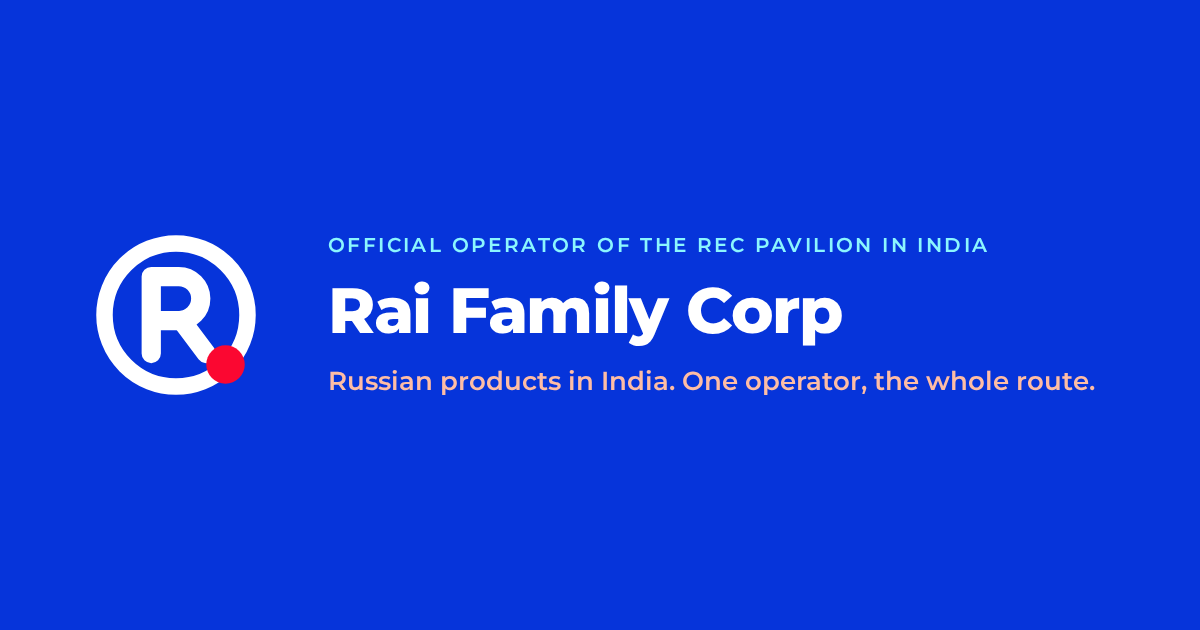
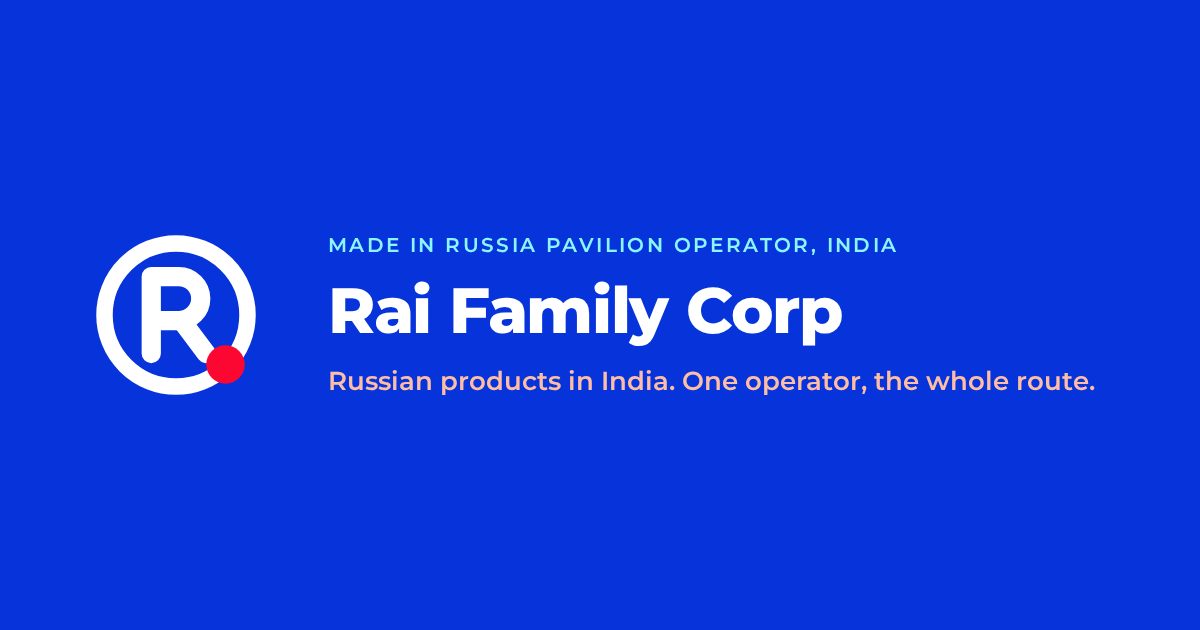
feat(i18n): name the pavilion by its official Made in Russia title
- pavilion is the Made in Russia national pavilion in Navi Mumbai, a Russian
  Export Center project; abbreviations REC/РЭЦ dropped from visible copy
- new keys pavilion.subtitle and status.* in three locales; Навi-Мумбаи with hyphen
- direction summaries updated; og.png regenerated
- Seo.astro: Organization description and optional sameAs (contacts.sameAs)
- src/data/company.ts: facts pending confirmation by the Russian Export Center

Claude-Session: https://claude.ai/code/session_0174xDGYvpD3uDKJ4RSyVDz9

Changed region(s): [[0.2775, 0.3619, 0.8325, 0.4222]]

diff --git a/src/i18n/ui.ts b/src/i18n/ui.ts
@@ -30,6 +30,7 @@ interface Copy {
     badge: string;
   };
   trust: { operator: string; pavilion: string; since: string; mark: string };
+  status: { company: string; direction: string; line: string; markAlt: string };
   audiences: {
     eyebrow: string;
     title: string;
@@ -71,6 +72,7 @@ interface Copy {
   pavilion: {
     eyebrow: string;
     title: string;
+    subtitle: string;
     text: string;
     addressLabel: string;
     address: string[];
@@ -95,9 +97,9 @@ export const ui: Record<'en' | 'ru' | 'hi', Copy> = {
   en: {
     meta: {
       siteName: 'Rai Family Corp',
-      title: 'Rai Family Corp — Official operator of the Russian Export Center pavilion in India',
+      title: 'Rai Family Corp: operator of the Made in Russia national pavilion in India',
       description:
-        'Rai Family Corp LLP promotes Russian products in India as the official operator of the Russian Export Center pavilion: distribution, marketing, import, certification and logistics.',
+        'Rai Family Corp LLP is the operator of the Made in Russia national pavilion in Navi Mumbai, a Russian Export Center project and the first in India. Distribution, marketing, import, certification and logistics for Russian products.',
     },
     nav: {
       about: 'About',
@@ -114,7 +116,7 @@ export const ui: Record<'en' | 'ru' | 'hi', Copy> = {
       footerLanguage: 'Language, footer',
     },
     hero: {
-      eyebrow: 'Official operator of the Russian Export Center pavilion in India',
+      eyebrow: 'Made in Russia pavilion operator, India',
       title: 'Russian products in India. One operator, the whole route.',
       lead: 'Rai Family Corp LLP gives Russian manufacturers direct distribution channels and marketing in India, and handles the full cycle of import, certification and logistics.',
       ctaPrimary: 'Contact us',
@@ -122,10 +124,16 @@ export const ui: Record<'en' | 'ru' | 'hi', Copy> = {
       badge: 'Made in Russia. Trusted by the world',
     },
     trust: {
-      operator: 'Official REC pavilion operator',
-      pavilion: 'Pavilion in Navi Mumbai',
-      since: 'Operating since 2024',
+      operator: 'Made in Russia pavilion operator',
+      pavilion: 'First pavilion of the programme in India',
+      since: 'Company since 2024, pavilion since August 2026',
       mark: 'Made in Russia mark',
+    },
+    status: {
+      company: 'Rai Family Corp',
+      direction: 'A Rai Family Corp direction',
+      line: 'Made in Russia pavilion operator, India',
+      markAlt: 'Made in Russia mark',
     },
     audiences: {
       eyebrow: 'Who we work with',
@@ -134,7 +142,7 @@ export const ui: Record<'en' | 'ru' | 'hi', Copy> = {
       items: {
         manufacturers: {
           title: 'Russian manufacturers',
-          text: 'Enter the Indian market through the official REC pavilion: market assessment, adaptation, certification, import and distribution under one contract.',
+          text: 'Enter the Indian market through the Made in Russia pavilion: market assessment, adaptation, certification, import and distribution under one contract.',
           cta: 'See services',
         },
         distributors: {
@@ -158,14 +166,14 @@ export const ui: Record<'en' | 'ru' | 'hi', Copy> = {
       eyebrow: 'About the company',
       title: 'The official gateway for Russian products into India',
       paragraphs: [
-        'Rai Family Corp LLP is an Indian company and the official operator of the Russian Export Center pavilion in India. The pavilion is the point where Russian manufacturers meet Indian distributors, retail chains and institutions.',
+        'Rai Family Corp LLP is an Indian company and the operator of the Made in Russia national pavilion in Navi Mumbai, a Russian Export Center project. The pavilion is where Russian manufacturers meet Indian distributors, retail chains and institutions.',
         'We provide direct distribution channels and marketing promotion, and cover the full range of related work: market research, product and packaging adaptation, certification, import procedures, legal support and logistics.',
       ],
       facts: [
-        { label: 'Status', value: 'Official REC pavilion operator' },
+        { label: 'Status', value: 'Made in Russia national pavilion operator' },
         { label: 'Founded', value: 'September 2024' },
         { label: 'Registered', value: 'India, Maharashtra' },
-        { label: 'Pavilion', value: 'CBD Belapur, Navi Mumbai' },
+        { label: 'Pavilion', value: 'Opened 21 August 2026, CBD Belapur, Navi Mumbai' },
       ],
     },
     services: {
@@ -232,14 +240,17 @@ export const ui: Record<'en' | 'ru' | 'hi', Copy> = {
       documents: 'Documents',
       siteSoon: 'Product site coming soon',
       backToContacts: 'Contact the operator',
-      contactsIntro: 'Enquiries about this direction go through Rai Family Corp, the operator.',
+      contactsIntro:
+        'Enquiries about this direction go through the pavilion operator, Rai Family Corp.',
       audiencesLabel: 'For',
       otherDirections: 'Other directions',
     },
     pavilion: {
       eyebrow: 'Pavilion',
-      title: 'Russian Export Center pavilion, Navi Mumbai',
-      text: 'The pavilion is the physical home of Russian products in India: a showroom for distributors and institutions, a venue for tastings and B2B meetings, and the operator’s office.',
+      title: 'Made in Russia national pavilion, Navi Mumbai',
+      subtitle:
+        'A Russian Export Center project · opened 21 August 2026 · CBD Belapur, Navi Mumbai',
+      text: 'The first Made in Russia pavilion in India, a Russian Export Center project opened on 21 August 2026. It is the physical home of Russian products in the country: a showroom for distributors and institutions, a venue for tastings and B2B meetings, and the office of the operator, Rai Family Corp.',
       addressLabel: 'Address',
       address: [
         'Office No. 1307 and 1308, NMS Titanium, 13th Floor',
@@ -261,7 +272,8 @@ export const ui: Record<'en' | 'ru' | 'hi', Copy> = {
     },
     footer: {
       legal: 'Rai Family Corp LLP',
-      operator: 'Official operator of the Russian Export Center pavilion in India',
+      operator:
+        'Operator of the Made in Russia national pavilion in India, a Russian Export Center project',
       rights: 'All rights reserved.',
       madeInRussia:
         '“Made in Russia” is a trademark of the Russian Export Center, used with permission.',
@@ -276,10 +288,9 @@ export const ui: Record<'en' | 'ru' | 'hi', Copy> = {
   ru: {
     meta: {
       siteName: 'Rai Family Corp',
-      title:
-        'Rai Family Corp — официальный оператор павильона Российского экспортного центра в Индии',
+      title: 'Rai Family Corp: оператор национального павильона «Сделано в России» в Индии',
       description:
-        'Rai Family Corp LLP продвигает российские товары в Индии как официальный оператор павильона Российского экспортного центра: дистрибуция, маркетинг, импорт, сертификация и логистика.',
+        'Rai Family Corp LLP: оператор национального павильона «Сделано в России» в Нави-Мумбаи, проекта Российского экспортного центра и первого в Индии. Дистрибуция, маркетинг, импорт, сертификация и логистика российских товаров.',
     },
     nav: {
       about: 'О компании',
@@ -296,7 +307,7 @@ export const ui: Record<'en' | 'ru' | 'hi', Copy> = {
       footerLanguage: 'Язык, подвал',
     },
     hero: {
-      eyebrow: 'Официальный оператор павильона Российского экспортного центра в Индии',
+      eyebrow: 'Оператор павильона «Сделано в России» в Индии',
       title: 'Российские товары в Индии. Один оператор, весь путь.',
       lead: 'Rai Family Corp LLP даёт российским производителям прямые каналы дистрибуции и маркетинговое продвижение в Индии и берёт на себя полный цикл импорта, сертификации и логистики.',
       ctaPrimary: 'Связаться',
@@ -304,10 +315,16 @@ export const ui: Record<'en' | 'ru' | 'hi', Copy> = {
       badge: 'Сделано в России. Качество, которому доверяют',
     },
     trust: {
-      operator: 'Официальный оператор павильона РЭЦ',
-      pavilion: 'Павильон в Нави Мумбаи',
-      since: 'Работаем с 2024 года',
+      operator: 'Оператор павильона «Сделано в России»',
+      pavilion: 'Первый павильон программы в Индии',
+      since: 'Компания с 2024 года, павильон с августа 2026',
       mark: 'Знак «Сделано в России»',
+    },
+    status: {
+      company: 'Rai Family Corp',
+      direction: 'Направление Rai Family Corp',
+      line: 'Оператор павильона «Сделано в России» в Индии',
+      markAlt: 'Знак «Сделано в России»',
     },
     audiences: {
       eyebrow: 'С кем мы работаем',
@@ -316,12 +333,12 @@ export const ui: Record<'en' | 'ru' | 'hi', Copy> = {
       items: {
         manufacturers: {
           title: 'Российские производители',
-          text: 'Выход на рынок Индии через официальный павильон РЭЦ: оценка рынка, адаптация, сертификация, импорт и дистрибуция по одному договору.',
+          text: 'Выход на рынок Индии через павильон «Сделано в России»: оценка рынка, адаптация, сертификация, импорт и дистрибуция по одному договору.',
           cta: 'Смотреть услуги',
         },
         distributors: {
           title: 'Индийские дистрибьюторы и ритейл',
-          text: 'Сертифицированные российские товары от одного ответственного партнёра в Нави Мумбаи: документы, логистика и маркетинговая поддержка включены.',
+          text: 'Сертифицированные российские товары от одного ответственного партнёра в Нави-Мумбаи: документы, логистика и маркетинговая поддержка включены.',
           cta: 'Смотреть направления',
         },
         institutions: {
@@ -340,14 +357,14 @@ export const ui: Record<'en' | 'ru' | 'hi', Copy> = {
       eyebrow: 'О компании',
       title: 'Официальные ворота для российских товаров в Индию',
       paragraphs: [
-        'Rai Family Corp LLP — индийская компания, официальный оператор павильона Российского экспортного центра в Индии. Павильон — это точка, где российские производители встречаются с индийскими дистрибьюторами, торговыми сетями и институтами.',
+        'Rai Family Corp LLP: индийская компания, оператор национального павильона «Сделано в России» в Нави-Мумбаи, проекта Российского экспортного центра. Павильон: точка, где российские производители встречаются с индийскими дистрибьюторами, торговыми сетями и институтами.',
         'Мы предоставляем прямые каналы дистрибуции и маркетинговое продвижение и закрываем весь спектр связанных задач: исследование рынка, адаптацию продукта и упаковки, сертификацию, импортные процедуры, юридическое сопровождение и логистику.',
       ],
       facts: [
-        { label: 'Статус', value: 'Официальный оператор павильона РЭЦ' },
+        { label: 'Статус', value: 'Оператор национального павильона «Сделано в России»' },
         { label: 'Основана', value: 'Сентябрь 2024' },
         { label: 'Регистрация', value: 'Индия, Махараштра' },
-        { label: 'Павильон', value: 'CBD Belapur, Нави Мумбаи' },
+        { label: 'Павильон', value: 'Открыт 21 августа 2026, CBD Belapur, Нави-Мумбаи' },
       ],
     },
     services: {
@@ -414,14 +431,17 @@ export const ui: Record<'en' | 'ru' | 'hi', Copy> = {
       documents: 'Документы',
       siteSoon: 'Сайт продукта скоро появится',
       backToContacts: 'Связаться с оператором',
-      contactsIntro: 'Запросы по этому направлению проходят через оператора — Rai Family Corp.',
+      contactsIntro:
+        'Запросы по этому направлению проходят через оператора павильона, Rai Family Corp.',
       audiencesLabel: 'Для кого',
       otherDirections: 'Другие направления',
     },
     pavilion: {
       eyebrow: 'Павильон',
-      title: 'Павильон Российского экспортного центра, Нави Мумбаи',
-      text: 'Павильон — физический дом российских товаров в Индии: шоурум для дистрибьюторов и институтов, площадка для дегустаций и B2B-встреч, офис оператора.',
+      title: 'Национальный павильон «Сделано в России», Нави-Мумбаи',
+      subtitle:
+        'Проект Российского экспортного центра · открыт 21 августа 2026 · CBD Belapur, Нави-Мумбаи',
+      text: 'Первый павильон «Сделано в России» в Индии, проект Российского экспортного центра, открыт 21 августа 2026 года. Это физический дом российских товаров в стране: шоурум для дистрибьюторов и институтов, площадка для дегустаций и B2B-встреч, офис оператора Rai Family Corp.',
       addressLabel: 'Адрес',
       address: [
         'Office No. 1307 and 1308, NMS Titanium, 13th Floor',
@@ -443,7 +463,8 @@ export const ui: Record<'en' | 'ru' | 'hi', Copy> = {
     },
     footer: {
       legal: 'Rai Family Corp LLP',
-      operator: 'Официальный оператор павильона Российского экспортного центра в Индии',
+      operator:
+        'Оператор национального павильона «Сделано в России» в Индии, проекта Российского экспортного центра',
       rights: 'Все права защищены.',
       madeInRussia:
         '«Сделано в России» — товарный знак Российского экспортного центра, используется с разрешения.',
@@ -458,9 +479,9 @@ export const ui: Record<'en' | 'ru' | 'hi', Copy> = {
   hi: {
     meta: {
       siteName: 'Rai Family Corp',
-      title: 'Rai Family Corp — भारत में रूसी निर्यात केंद्र पवेलियन का आधिकारिक ऑपरेटर',
+      title: 'Rai Family Corp: भारत में Made in Russia राष्ट्रीय पवेलियन का ऑपरेटर',
       description:
-        'Rai Family Corp LLP रूसी निर्यात केंद्र पवेलियन के आधिकारिक ऑपरेटर के रूप में भारत में रूसी उत्पादों का प्रचार करता है: वितरण, मार्केटिंग, आयात, प्रमाणन और लॉजिस्टिक्स।',
+        'Rai Family Corp LLP नवी मुंबई में Made in Russia राष्ट्रीय पवेलियन का ऑपरेटर है, जो रूसी निर्यात केंद्र की परियोजना और भारत में पहला पवेलियन है। रूसी उत्पादों के लिए वितरण, मार्केटिंग, आयात, प्रमाणन और लॉजिस्टिक्स।',
     },
     nav: {
       about: 'कंपनी',
@@ -477,7 +498,7 @@ export const ui: Record<'en' | 'ru' | 'hi', Copy> = {
       footerLanguage: 'भाषा, फ़ुटर',
     },
     hero: {
-      eyebrow: 'भारत में रूसी निर्यात केंद्र पवेलियन का आधिकारिक ऑपरेटर',
+      eyebrow: 'Made in Russia पवेलियन ऑपरेटर, भारत',
       title: 'भारत में रूसी उत्पाद। एक ऑपरेटर, पूरा रास्ता।',
       lead: 'Rai Family Corp LLP रूसी निर्माताओं को भारत में सीधे वितरण चैनल और मार्केटिंग प्रदान करता है, और आयात, प्रमाणन व लॉजिस्टिक्स का पूरा चक्र संभालता है।',
       ctaPrimary: 'संपर्क करें',
@@ -485,10 +506,16 @@ export const ui: Record<'en' | 'ru' | 'hi', Copy> = {
       badge: 'Made in Russia. Trusted by the world',
     },
     trust: {
-      operator: 'REC पवेलियन का आधिकारिक ऑपरेटर',
-      pavilion: 'नवी मुंबई में पवेलियन',
-      since: '2024 से कार्यरत',
+      operator: 'Made in Russia पवेलियन ऑपरेटर',
+      pavilion: 'भारत में कार्यक्रम का पहला पवेलियन',
+      since: 'कंपनी 2024 से, पवेलियन अगस्त 2026 से',
       mark: 'Made in Russia चिह्न',
+    },
+    status: {
+      company: 'Rai Family Corp',
+      direction: 'Rai Family Corp की दिशा',
+      line: 'Made in Russia पवेलियन ऑपरेटर, भारत',
+      markAlt: 'Made in Russia चिह्न',
     },
     audiences: {
       eyebrow: 'हम किसके साथ काम करते हैं',
@@ -497,7 +524,7 @@ export const ui: Record<'en' | 'ru' | 'hi', Copy> = {
       items: {
         manufacturers: {
           title: 'रूसी निर्माता',
-          text: 'आधिकारिक REC पवेलियन के माध्यम से भारतीय बाज़ार में प्रवेश: बाज़ार आकलन, अनुकूलन, प्रमाणन, आयात और वितरण — एक ही अनुबंध में।',
+          text: 'Made in Russia पवेलियन के माध्यम से भारतीय बाज़ार में प्रवेश: बाज़ार आकलन, अनुकूलन, प्रमाणन, आयात और वितरण, एक ही अनुबंध में।',
           cta: 'सेवाएँ देखें',
         },
         distributors: {
@@ -521,14 +548,14 @@ export const ui: Record<'en' | 'ru' | 'hi', Copy> = {
       eyebrow: 'कंपनी के बारे में',
       title: 'रूसी उत्पादों के लिए भारत का आधिकारिक प्रवेश द्वार',
       paragraphs: [
-        'Rai Family Corp LLP एक भारतीय कंपनी है और भारत में रूसी निर्यात केंद्र पवेलियन का आधिकारिक ऑपरेटर है। पवेलियन वह स्थान है जहाँ रूसी निर्माता भारतीय वितरकों, रिटेल शृंखलाओं और संस्थानों से मिलते हैं।',
+        'Rai Family Corp LLP एक भारतीय कंपनी है और नवी मुंबई में Made in Russia («मेड इन रशिया») राष्ट्रीय पवेलियन की ऑपरेटर है, जो रूसी निर्यात केंद्र की परियोजना है। पवेलियन वह स्थान है जहाँ रूसी निर्माता भारतीय वितरकों, रिटेल शृंखलाओं और संस्थानों से मिलते हैं।',
         'हम सीधे वितरण चैनल और मार्केटिंग प्रचार प्रदान करते हैं और संबंधित सभी कार्य संभालते हैं: बाज़ार अनुसंधान, उत्पाद और पैकेजिंग अनुकूलन, प्रमाणन, आयात प्रक्रियाएँ, कानूनी सहायता और लॉजिस्टिक्स।',
       ],
       facts: [
-        { label: 'स्थिति', value: 'REC पवेलियन का आधिकारिक ऑपरेटर' },
+        { label: 'स्थिति', value: 'Made in Russia राष्ट्रीय पवेलियन का ऑपरेटर' },
         { label: 'स्थापना', value: 'सितंबर 2024' },
         { label: 'पंजीकरण', value: 'भारत, महाराष्ट्र' },
-        { label: 'पवेलियन', value: 'CBD बेलापुर, नवी मुंबई' },
+        { label: 'पवेलियन', value: '21 अगस्त 2026 को खुला, CBD बेलापुर, नवी मुंबई' },
       ],
     },
     services: {
@@ -595,14 +622,15 @@ export const ui: Record<'en' | 'ru' | 'hi', Copy> = {
       documents: 'दस्तावेज़',
       siteSoon: 'उत्पाद साइट जल्द ही',
       backToContacts: 'ऑपरेटर से संपर्क करें',
-      contactsIntro: 'इस दिशा से जुड़ी पूछताछ ऑपरेटर Rai Family Corp के माध्यम से होती है।',
+      contactsIntro: 'इस दिशा से जुड़ी पूछताछ पवेलियन ऑपरेटर Rai Family Corp के माध्यम से होती है।',
       audiencesLabel: 'किसके लिए',
       otherDirections: 'अन्य दिशाएँ',
     },
     pavilion: {
       eyebrow: 'पवेलियन',
-      title: 'रूसी निर्यात केंद्र पवेलियन, नवी मुंबई',
-      text: 'पवेलियन भारत में रूसी उत्पादों का भौतिक घर है: वितरकों और संस्थानों के लिए शोरूम, टेस्टिंग और B2B बैठकों का स्थल, और ऑपरेटर का कार्यालय।',
+      title: 'Made in Russia राष्ट्रीय पवेलियन, नवी मुंबई',
+      subtitle: 'रूसी निर्यात केंद्र की परियोजना · 21 अगस्त 2026 को खुला · CBD बेलापुर, नवी मुंबई',
+      text: 'भारत में पहला Made in Russia पवेलियन, रूसी निर्यात केंद्र की परियोजना, 21 अगस्त 2026 को खुला। यह देश में रूसी उत्पादों का भौतिक घर है: वितरकों और संस्थानों के लिए शोरूम, टेस्टिंग और B2B बैठकों का स्थल, और ऑपरेटर Rai Family Corp का कार्यालय।',
       addressLabel: 'पता',
       address: [
         'Office No. 1307 and 1308, NMS Titanium, 13th Floor',
@@ -624,7 +652,8 @@ export const ui: Record<'en' | 'ru' | 'hi', Copy> = {
     },
     footer: {
       legal: 'Rai Family Corp LLP',
-      operator: 'भारत में रूसी निर्यात केंद्र पवेलियन का आधिकारिक ऑपरेटर',
+      operator:
+        'भारत में Made in Russia राष्ट्रीय पवेलियन का ऑपरेटर, रूसी निर्यात केंद्र की परियोजना',
       rights: 'सर्वाधिकार सुरक्षित।',
       madeInRussia: '“Made in Russia” रूसी निर्यात केंद्र का ट्रेडमार्क है, अनुमति से प्रयुक्त।',
     },

diff --git a/src/data/company.ts b/src/data/company.ts
@@ -1,0 +1,15 @@
+/*
+  Facts about the pavilion that still need confirmation from the Russian Export
+  Center ("подтвердить у РЭЦ"). The visible strings in src/i18n/ui.ts are
+  literals for now; if any value here changes, update the strings listed in the
+  pull request that introduced them (meta.description, trust.*, pavilion.*,
+  about.facts, footer.operator).
+*/
+export const company = {
+  /** Opening date of the Made in Russia national pavilion in Navi Mumbai. Подтвердить у РЭЦ. */
+  pavilionOpened: '2026-08-21',
+  /** Whether it is the first pavilion of the programme in India. Подтвердить у РЭЦ. */
+  firstInIndia: true,
+  /** Official English name of the pavilion. Подтвердить у РЭЦ. */
+  officialPavilionName: 'Made in Russia national pavilion',
+} as const;

diff --git a/src/data/contacts.ts b/src/data/contacts.ts
@@ -13,6 +13,8 @@ export const contacts = {
     'Plot No. 74, Sector-15, CBD Belapur',
     'Navi Mumbai, Thane, Maharashtra 400614, India',
   ],
+  /** Official profiles for schema.org sameAs. Ссылка на страницу павильона на сайте РЭЦ / madeinrussia будет добавлена после подтверждения. */
+  sameAs: [] as string[],
   mapUrl:
     'https://www.google.com/maps/search/?api=1&query=NMS+Titanium%2C+Plot+No.+74%2C+Sector-15%2C+CBD+Belapur%2C+Navi+Mumbai%2C+Maharashtra+400614',
 };
